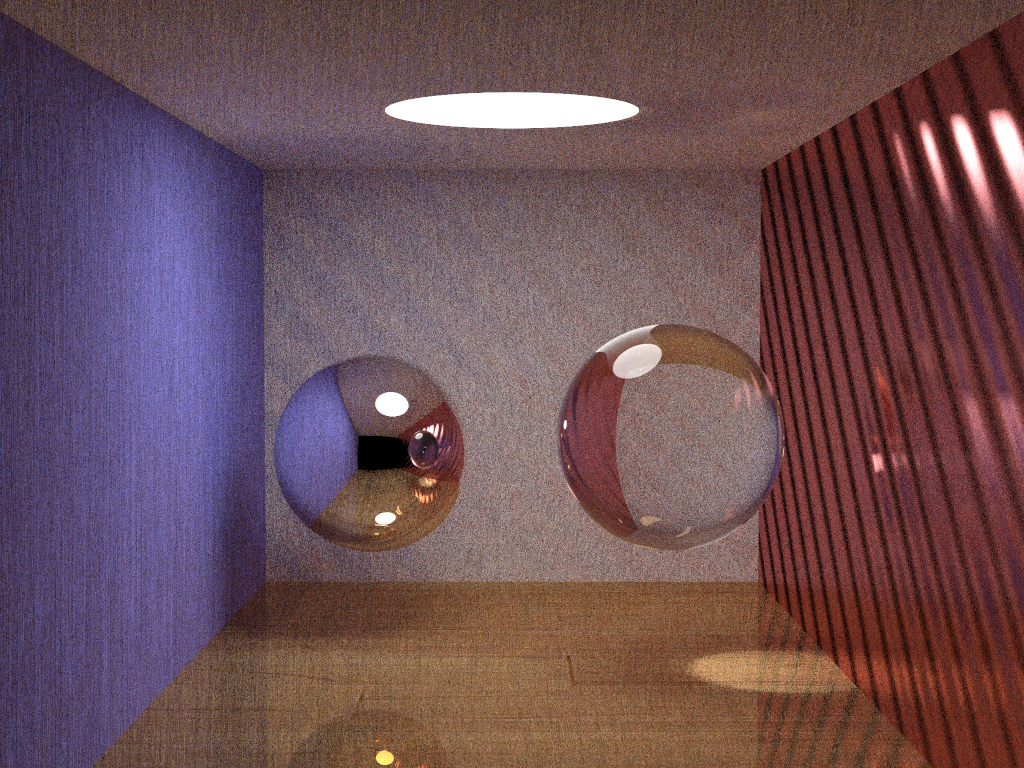
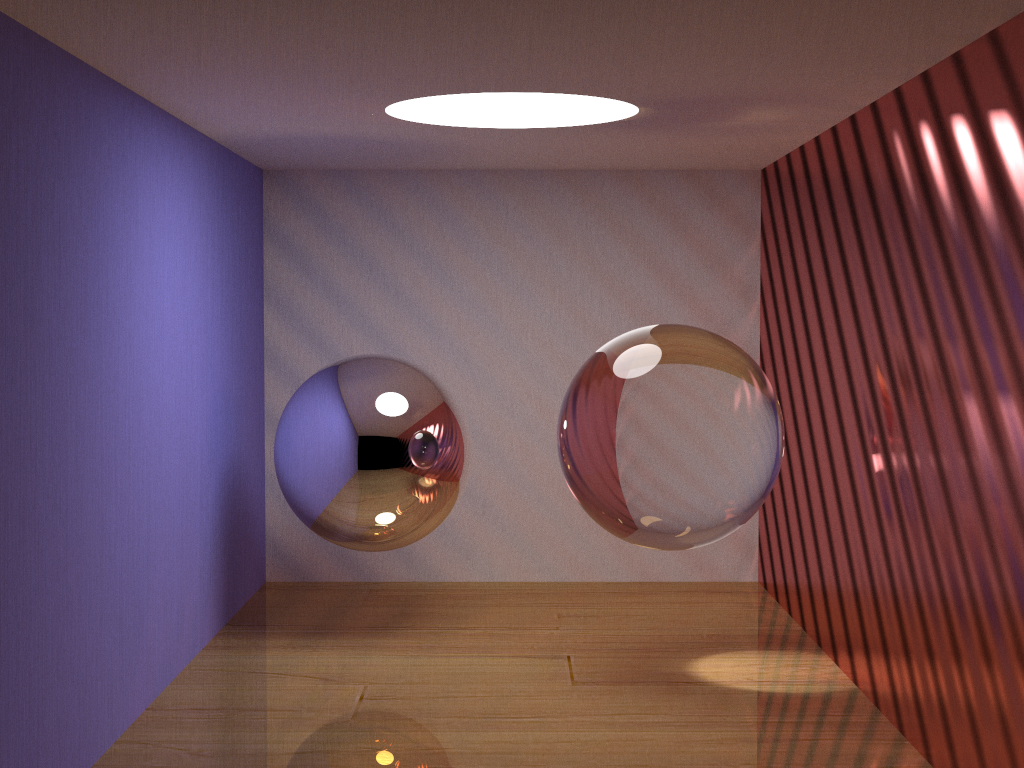
go on

diff --git a/GraphicsProjectRayTracing/main.cpp b/GraphicsProjectRayTracing/main.cpp
@@ -68,7 +68,7 @@ void brdf(const Ray& r, MyVector nl, MyVector& f, MyVector d)
     r.dir.calSphereRepre(nl, getBiNormal(nl), theta_out, phi_out);
     d.calSphereRepre(nl, getBiNormal(nl), theta_in, phi_in);
     MyVector tmp;
-    lookup_brdf_val(brdf_m, theta_in, phi_in, theta_out, phi_out, tmp.x, tmp.y, tmp.z);
+    lookup_brdf_val(brdf_m, theta_in, phi_in, M_PI - theta_out, phi_out, tmp.x, tmp.y, tmp.z);
     f = f * tmp * 10;
 }
 
@@ -164,7 +164,7 @@ void emitPhotons(const std::vector<Sphere>& spheres, const std::function<double(
 int main(int argc, char *argv[])
 {
     auto begin = clock();
-    int w = 1024, h = 768, samps = 2000; // # samples
+    int w = 1024, h = 768, samps = 8000; // # samples
     Ray cam(MyVector(50, 52, 295.6), MyVector(0, -0.042612, -1).normalize()); // cam pos, dir
     MyVector cx = MyVector(w*.5135 / h), cy = (cx%cam.dir).normalize()*.5135, r, *c = new MyVector[w*h];
     read_brdf("./model/delrin.binary", brdf_m);
@@ -174,7 +174,7 @@ int main(int argc, char *argv[])
         std::vector<Sphere> spheres = {//Scene: radius, position, emission, color, material
             Sphere(1e5, MyVector(1e5 + 1,40.8,81.6), MyVector(),MyVector(.95,.05,.05),DIFF),//Left
             Sphere(1e5, MyVector(-1e5 + 99,40.8,81.6),MyVector(),MyVector(.05,.05,.95),WARD),//Rght
-            Sphere(1e5, MyVector(50,40.8, 1e5),     MyVector(),MyVector(.75,.75,.75),BUMP),//Back
+            Sphere(1e5, MyVector(50,40.8, 1e5),     MyVector(),MyVector(.75,.75,.75),BRDF),//Back
             Sphere(1e5, MyVector(50,40.8,-1e5 + 170), MyVector(),MyVector(),           DIFF),//Frnt
             Sphere(1e5, MyVector(50, 1e5, 81.6),    MyVector(),MyVector(.75,.75,.75),WOOD),//Botm
             Sphere(1e5, MyVector(50,-1e5 + 81.6,81.6),MyVector(),MyVector(.75,.75,.75),DIFF),//Top
@@ -219,7 +219,7 @@ int main(int argc, char *argv[])
         }
     }
 
-	imwrite(".\\answer1.png", img);
+	imwrite(".\\answer2.png", img);
 
     system("pause");
 	return 0;

diff --git a/GraphicsProjectRayTracing/kdtree.h b/GraphicsProjectRayTracing/kdtree.h
@@ -1,10 +1,12 @@
 #pragma once
 #include <vector>
+#include <queue>
 #include "Photon.h"
 #include <algorithm>
 #include <core/cvdef.h>
 int dim = 0;
-int cmp(const Photon &a, const Photon &b)
+MyVector pos;
+int cmpa(const Photon &a, const Photon &b)
 {
     switch(dim)
     {
@@ -21,6 +23,7 @@ int cmp(const Photon &a, const Photon &b)
 }
 
 
+
 class kdtree
 {
 public:
@@ -34,19 +37,31 @@ public:
         end = ed;
         dim = dimen;
         if (dim == 3) dim = 0;
-        std::sort(phoarr->begin() + root, phoarr->begin() + end, cmp);
+        std::sort(phoarr->begin() + root, phoarr->begin() + end, cmpa);
         if (end - root <= 2) return;
         auto tmp = (*phoarr)[root];
         (*phoarr)[root] = (*phoarr)[root + (end - root) / 2];
         (*phoarr)[root + (end - root) / 2] = tmp;
-        std::sort(phoarr->begin() + root + 1, phoarr->begin() + end, cmp);
+        std::sort(phoarr->begin() + root + 1, phoarr->begin() + end, cmpa);
         index = root + (end - root) / 2 + 1;
         lchild = new kdtree(phoarr, root + 1, index - 1, dimen + 1);
         rchild = new kdtree(phoarr, index, ed, dimen + 1);
     }
-    uchar* knn(int, int, double, double, double)
+    struct cmp {
+        bool operator()(Photon a, Photon b) const
+        {
+            return (a.RayPos - pos).norm() > (b.RayPos - pos).norm();
+        }
+    };
+    MyVector knn(const MyVector pos_)
     {
-        
+        pos = pos_;
+        std::priority_queue< Photon, std::vector<Photon>, cmp> pq;
+
+
+
+        MyVector res;
+        return res;
     }
     ~kdtree()
     {
